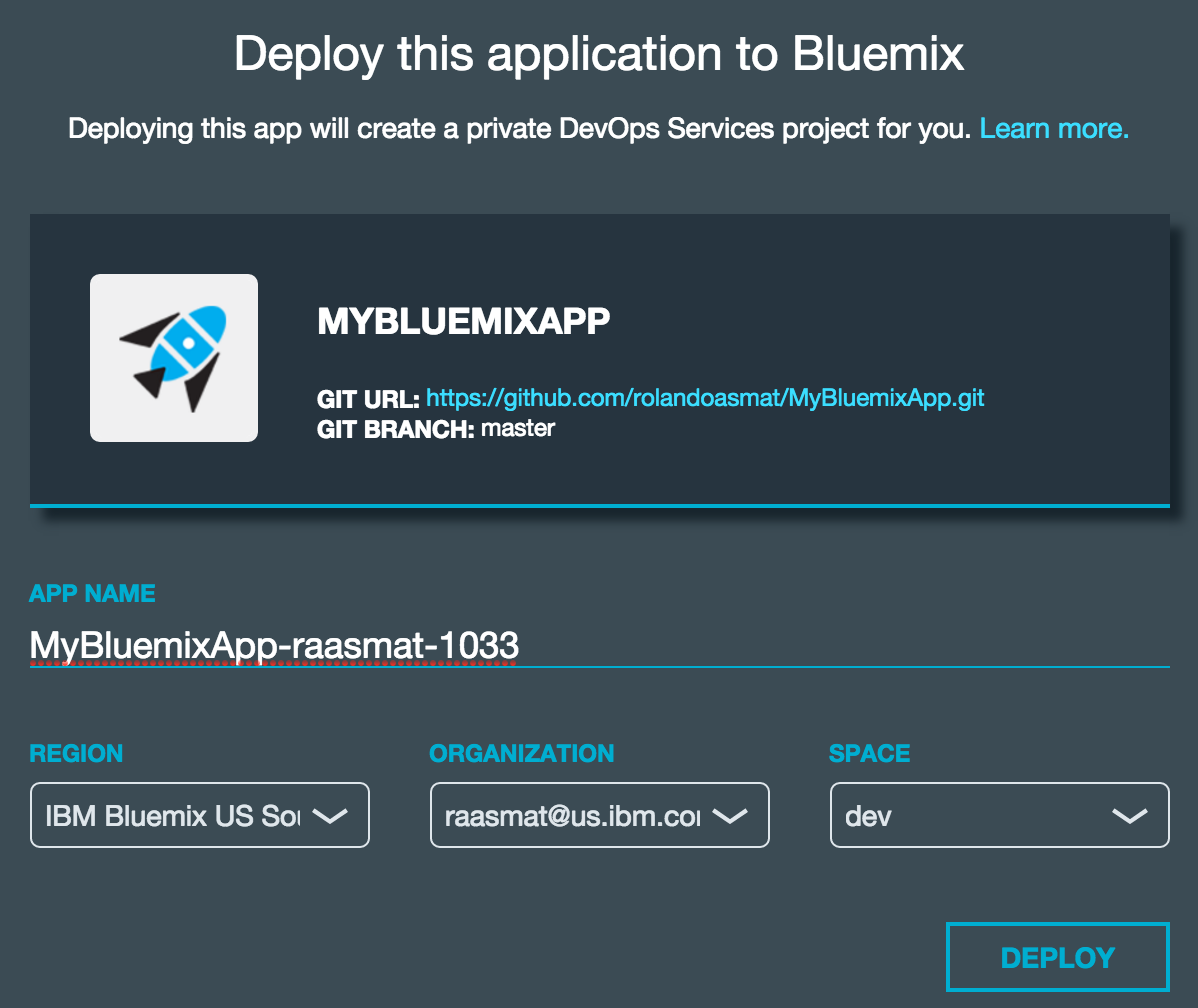
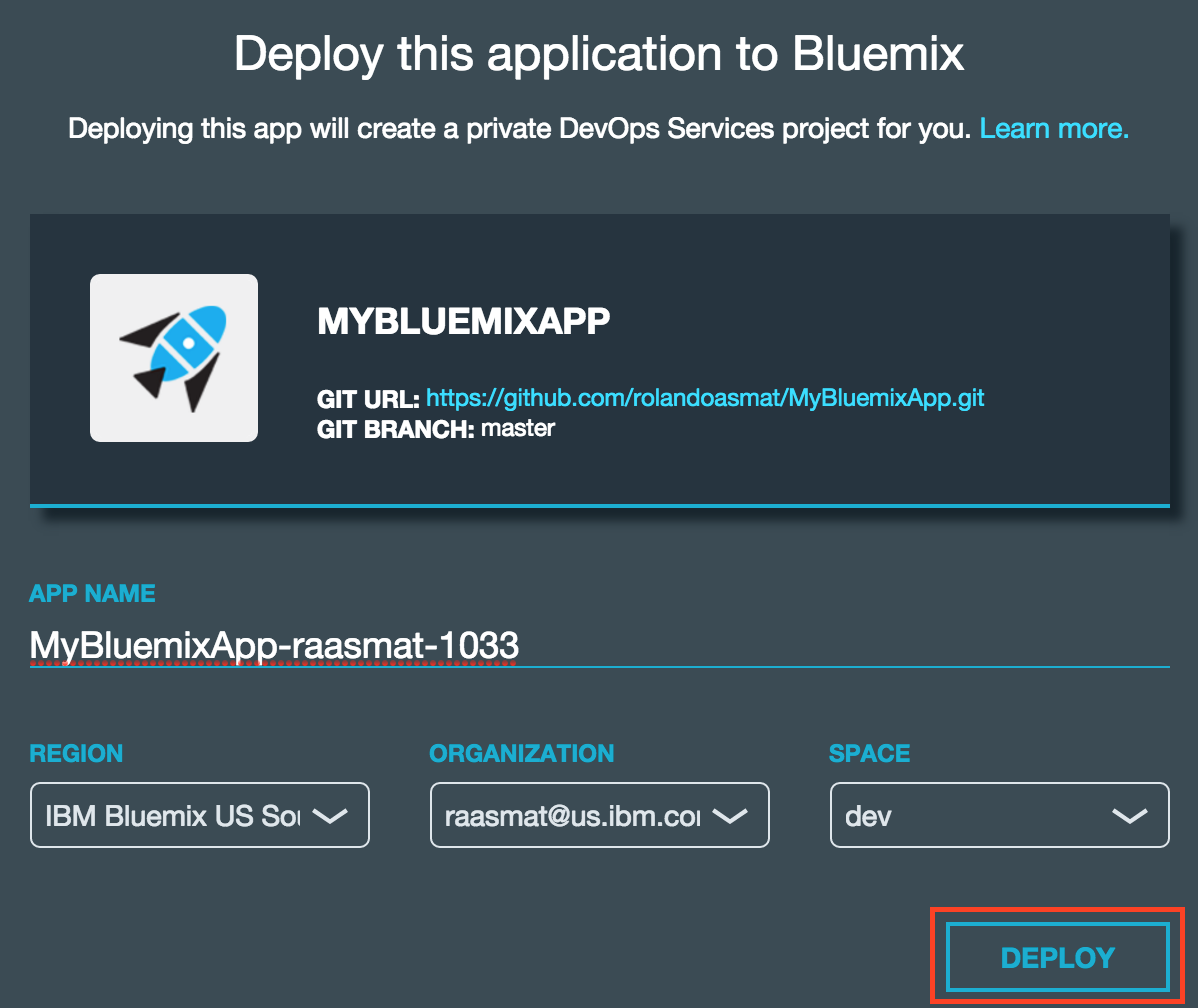
Updated steps to include creation of bluemix account. Added troubleshooting steps in case deploy to bluemix failed. Creation of bluemix services + application steps are complete.

diff --git a/README.md b/README.md
@@ -34,32 +34,46 @@ Currently, BluePic supports Xcode 7.1.1, iOS 9+, and Swift 2. Designed for iPhon
 <br>
 ## Getting Started
 
-### 1. Create Bluemix Application and Services
-Click the Deploy to Bluemix button below. It will create a Bluemix application in your account (it will prompt you to create one if you don't have one) and initialize the required services.
+### 1. Create Bluemix Account
+Create an IBM Bluemix account [here](https://console.ng.bluemix.net/registration/?cm_mc_uid=32373843009114392241684&cm_mc_sid_50200000=1450718074) and log in. If you already have an account, log in and continue to step 2.
+
+### 2. BluePic Account Requirements
+A free trial of Bluemix comes with 2 GB of memory and allows the use of up to 10 services. If this is your first time using Bluemix move on to step 3. Otherwise, BluePic requires 512 Mb of memory and 4 services, if your account does not have enough resources availabe, delete unused instances to free up resources. You can check your usage by looking at the DASHBOARD tab of Bluemix:
+<p align="center">
+<img src="img/account_usage.PNG"  alt="Drawing" width=700 border=0 /></p>
+<p align="center">Figure 1: Bluemix account usage for memory and services.</p>
+   
+### 3. Create Bluemix Application and Services
+Click the "Deploy to Bluemix" button below. It will create the BluePic Bluemix application in your account and initialize the required services.
 <p align="center">
 <a href="https://bluemix.net/deploy?repository=https://github.com/rolandoasmat/MyBluemixApp.git"> <img src="https://bluemix.net/deploy/button.png" alt="Deploy to Bluemix"></a>
 </p>
 
-If desired, update the app name, region, organization or space of the application (default parameters work). Click DEPLOY.
+If desired, update the app name, region, organization or space of the application (default parameters work). Click DEPLOY:
 <p align="center">
-<img src="img/deploy_button_params.PNG"  alt="Drawing" width=300 border=0 /></p>
-<p align="center">Figure 1: Parameters to deploy a Bluemix application.</p>
+<img src="img/deploy_button_params.PNG"  alt="Drawing" width=400 border=0 /></p>
+<p align="center">Figure 2: Parameters to deploy a Bluemix application.</p>
 
 Upon success you should see:
 <p align="center">
-<img src="img/deploy_button_success.PNG"  alt="Drawing" width=300 border=0 /></p>
-<p align="center">Figure 2: Deploy success page.</p>
+<img src="img/deploy_button_success.PNG"  alt="Drawing" width=400 border=0 /></p>
+<p align="center">Figure 3: Deploy success page.</p>
 
-Note: If deploying to Bluemix fails, make sure to manually delete the failed application on the Bluemix Dashboard as well as the created project on DevOps services (formerly known as JazzHub) before trying again.
+**Note:** If deploying to Bluemix fails, it will have created a faulty application on your account as well as a DevOps services (formerly known as JazzHub) project, these must be deleted manually before trying again. Steps on how to do this [here](#deploy-to-bluemix-failed).
 
-
-Next go to your dashboard by clicking the dashboard link on the top of the page. On your dashboard the application should then become accessible:
+Next go to your dashboard by clicking the "Dashboard" tab on the top of the page: 
 <p align="center">
-<img src="img/dashboard_application.PNG"  alt="Drawing" height=300 border=0 /></p>
-<p align="center">Figure 3: Bluemix dashboard.</p>
+<img src="img/deploy_success_dashboard.PNG"  alt="Drawing" width=700 border=0 /></p>
+<p align="center">Figure 4: Getting back to Dashboard after successful deployment.</p>
 
-<br>
-### 2. Create an application instance on Facebook
+On your dashboard the application should then become accessible:
+<p align="center">
+<img src="img/dashboard_application.PNG"  alt="Drawing" width=700 border=0 /></p>
+<p align="center">Figure 5: Bluemix dashboard.</p>
+
+
+
+### 4. Create an application instance on Facebook
 In order to have the app authenticate with Facebook, you must create an application instance on Facebook's website and connect it to your Bluemix app's Mobile Client Access.
 
 1. To create an application instance on Facebook's website, first go to [Facebook's Quick Start for iOS](https://developers.facebook.com/quickstarts/?platform=ios) page. Type 	`BluePic` as the name of your new Facebook app and click the `Create New Facebook App ID` button.
@@ -67,7 +81,7 @@ In order to have the app authenticate with Facebook, you must create an applicat
 1. On the screen that follows, in the `Configure your info.plist` section under `step 2`, copy that information into your `info.plist` file. You can find the `info.plist` file in Configuration folder of the xcode project. If you have trouble finding the `CFBundleURLType` key, note that xcode changes the `CFBundleURLType` key to `URL types` when the key is entered. Your `info.plist` file should now look like this:
 <p align="center">
 <img src="img/fb_info.PNG"  alt="Drawing" height=150 border=0 /></p>
-<p align="center">Figure 4. Info.plist file.</p>
+<p align="center">Figure 6. Info.plist file.</p>
 
 1. Next scroll to the bottom of the quick start page where it says `Supply us with your Bundle Identifier` and enter the app's bundle identifier. To find the bundle identifer in the Xcode project you can do the following: 
 	* Make sure the project navigator folder icon is selected in the top left of xcode. Select the BluePic project at the top of the file structure and then select the BluePic target. Under the identity section, you should see a text field for the bundle identifier that is empty. You can make the bundle identifier anything you want, `com.BluePic` for example.
@@ -76,9 +90,7 @@ In order to have the app authenticate with Facebook, you must create an applicat
 
 Thats it for all the Facebook login setup. The rest of the Facebook authentication steps are already setup in the BluePic Xcode project!
 
-
-
-
+<br>
 ### 3. Connect BluePic to your Bluemix Account
 The app has to be configured with certain credentials from each of the three Bluemix services. The file `keys.plist` located in the `Configuration` directory of the BluePic Xcode project must be updated with the following credentials:
 
@@ -415,6 +427,60 @@ For BluePic, we used a simple architecture where there is no middle tier compone
 Cloudant Sync requires a complete replica of the database on each mobile client. This may not be feasible for apps with large databases. Under such scenarios, instead of leveraging Cloudant Sync, the REST API provided by Cloudant could be used to perform CRUD and query operations against the remote Cloudant instance.  Though replicating subsets of records can be done today with Cloudant Sync, doing so with large databases where only a small subset of records should be replicated can introduce performance problems.
 
 Using Cloudant Sync without an additional middle tier component between the mobile app and the database requires the mobile code to know the username and password for accessing the Cloudant database. This will lead to security breaches if someone gets their hands on those credentials. Hence, security could be a reason for having all database operations go first through a middleware component (e.g. Liberty, Node.js) to verify that only authenticated and authorized users of the app can perform such operations. In this architecture, the credentials to access the database are only known by the middleware component.
+<br>
+## Troubleshooting
+
+### Deploy to Bluemix failed
+If the Deploy to Bluemix button failed, you would see a page similar to this:
+<p align="center">
+<img src="img/deploy_failed.PNG"  alt="Drawing" width=400 border=0 /></p>
+<p align="center">Figure . A failed deployment to Bluemix.</p>
+
+These are some of the most common reasons for a failed deployment:
+
+* Your account does not have enough resources. BluePic requires requires 512 Mb of memory and 4 services to deploy successfully. 
+* You have already deployed BluePic to your account and have tried to deploy it again.
+* Bluemix servers are down.
+
+Even though the deployment failed, Bluemix still have created an application, initializes some services and creates a DevOps project. You must delete these **manually** before attempting to deploy again. Begin by first going back to the dashboard, click the "Dashboard" tab on top of the page:
+<p align="center">
+<img src="img/deploy_failed_dashboard.PNG"  alt="Drawing" width=700 border=0 /></p>
+<p align="center">Figure . Click on the "Dashboard" tab to go back to the main page.</p>
+
+Once in the dashboard, find the failed application under the "Applications" section and click on the gray gear located on the top right corner of the application block to open the menu:
+<p align="center">
+<img src="img/application_gear.PNG"  alt="Drawing" width=700 border=0 /></p>
+<p align="center">Figure . Opening the menu of a Bluemix application.</p>
+
+With the menu now open, click the "Delete App" option:
+<p align="center">
+<img src="img/delete_app.PNG"  alt="Drawing" width=300 border=0 /></p>
+<p align="center">Figure . Menu open, delete option highlighted of a Bluemix application.</p>
+
+You will get at "Are you sure..." message, make sure all the services under the Services tab are checked and click DELETE, this will delete the application and all of the created services:
+<p align="center">
+<img src="img/delete_app_confirmation.PNG"  alt="Drawing" width=700 border=0 /></p>
+<p align="center">Figure . Deleting a Bluemix application and its binded services.</p>
+
+Now, you must delete the Bluemix DevOps project that was created. First, go to the IBM Bluemix DevOps Services main site [here](https://hub.jazz.net/). The main page looks like this:
+<p align="center">
+<img src="img/jazzhub.PNG"  alt="Drawing" width=700 border=0 /></p>
+<p align="center">Figure . IBM Bluemix DecOps Services main page.</p>
+
+Locate the created project on the main page and click the gray gear icon on the top right corner of the project block. 
+<p align="center">
+<img src="img/devops_project.PNG"  alt="Drawing" width=400 border=0 /></p>
+<p align="center">Figure . Opening the menu of a DevOps Services Project.</p>
+
+With the project page open, click on the Delete tab on the left side of the page: 
+<p align="center">
+<img src="img/devops_project_delete.PNG"  alt="Drawing" width=700 border=0 /></p>
+<p align="center">Figure . Deleting a DevOps Services project.</p>
+
+On the next page, type out DELETE in the empty field and click CONFIRM:
+<p align="center">
+<img src="img/devops_delete_confirm.PNG"  alt="Drawing" width=700 border=0 /></p>
+<p align="center">Figure . Confirm the deletion of tselected project.</p>
 
 <br>
 ## License
